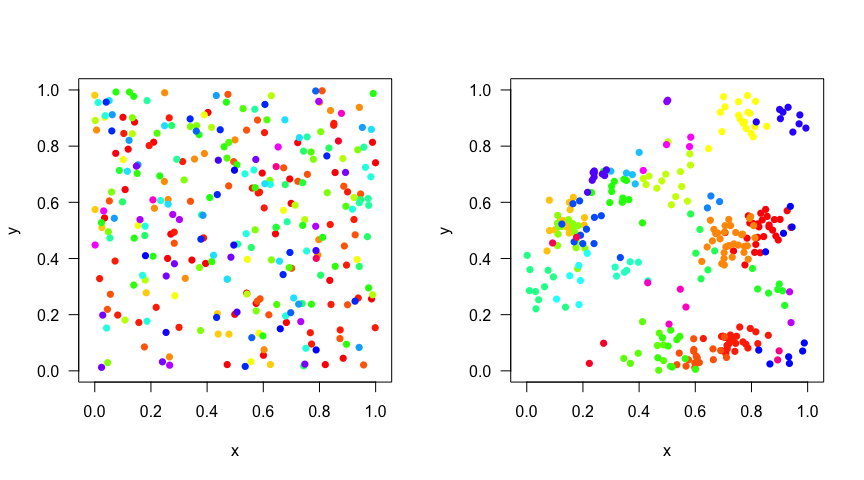
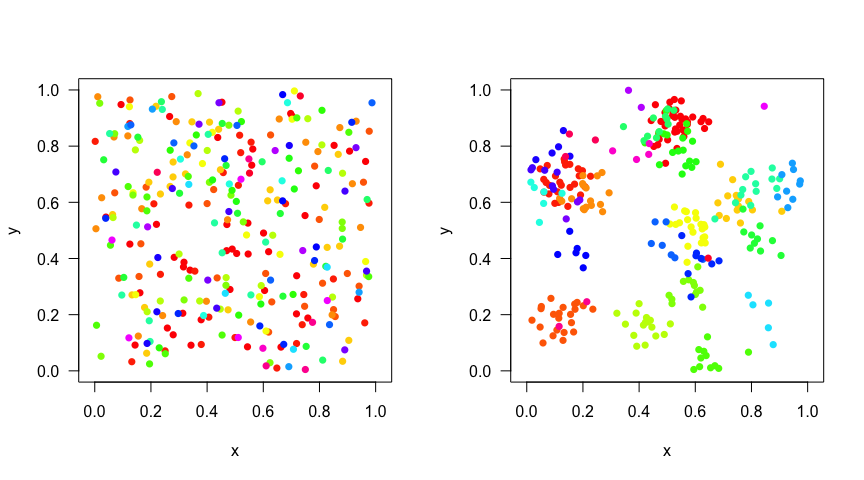
readme update
added link to shiny and fixed seed for figures

Changed region(s): [[0.0938, 0.1875, 0.4375, 0.7812], [0.5938, 0.1875, 0.9375, 0.7812], [0.6562, 0.75, 0.6875, 0.7812]]

diff --git a/README.md b/README.md
@@ -4,7 +4,8 @@
 
 <!-- badges: start -->
 
-[![CRAN_Status_Badge](http://www.r-pkg.org/badges/version/mobsim.png)](https://CRAN.R-project.org/package=mobsim)
+[![](http://www.r-pkg.org/badges/version/mobsim.png)](https://CRAN.R-project.org/package=mobsim)
+
 [![](http://cranlogs.r-pkg.org/badges/grand-total/mobsim.png)](https://CRAN.R-project.org/package=mobsim)
 
 [![](https://img.shields.io/badge/licence-GPL--3-blue.svg)](https://www.gnu.org/licenses/gpl-3.0.en.html)
@@ -31,6 +32,10 @@ similarity.
 A detailed introduction of the package is available on
 [bioRxiv](https://www.biorxiv.org/content/10.1101/209502v1).
 
+An interactive shiny app can also be found
+[here](https://github.com/albansagouis/mobsim_app). Please follow
+instructions in the README to run it on your computer.
+
 ## Installation
 
 ``` r
@@ -38,7 +43,6 @@ A detailed introduction of the package is available on
 install.packages("mobsim")
 
 # Or the development version from GitHub:
-# install.packages("devtools")
 remotes::install_github("MoBiodiv/mobsim", build_vignettes = TRUE)
 ```
 
@@ -74,6 +78,8 @@ comm_agg <- sim_thomas_community(s_pool = 30, n_sim = 300, sigma = 0.05, mother_
 ```
 
 ``` r
+set.seed(42)
+
 par(mfrow = c(1,2))
 plot(comm_rand)
 plot(comm_agg)
